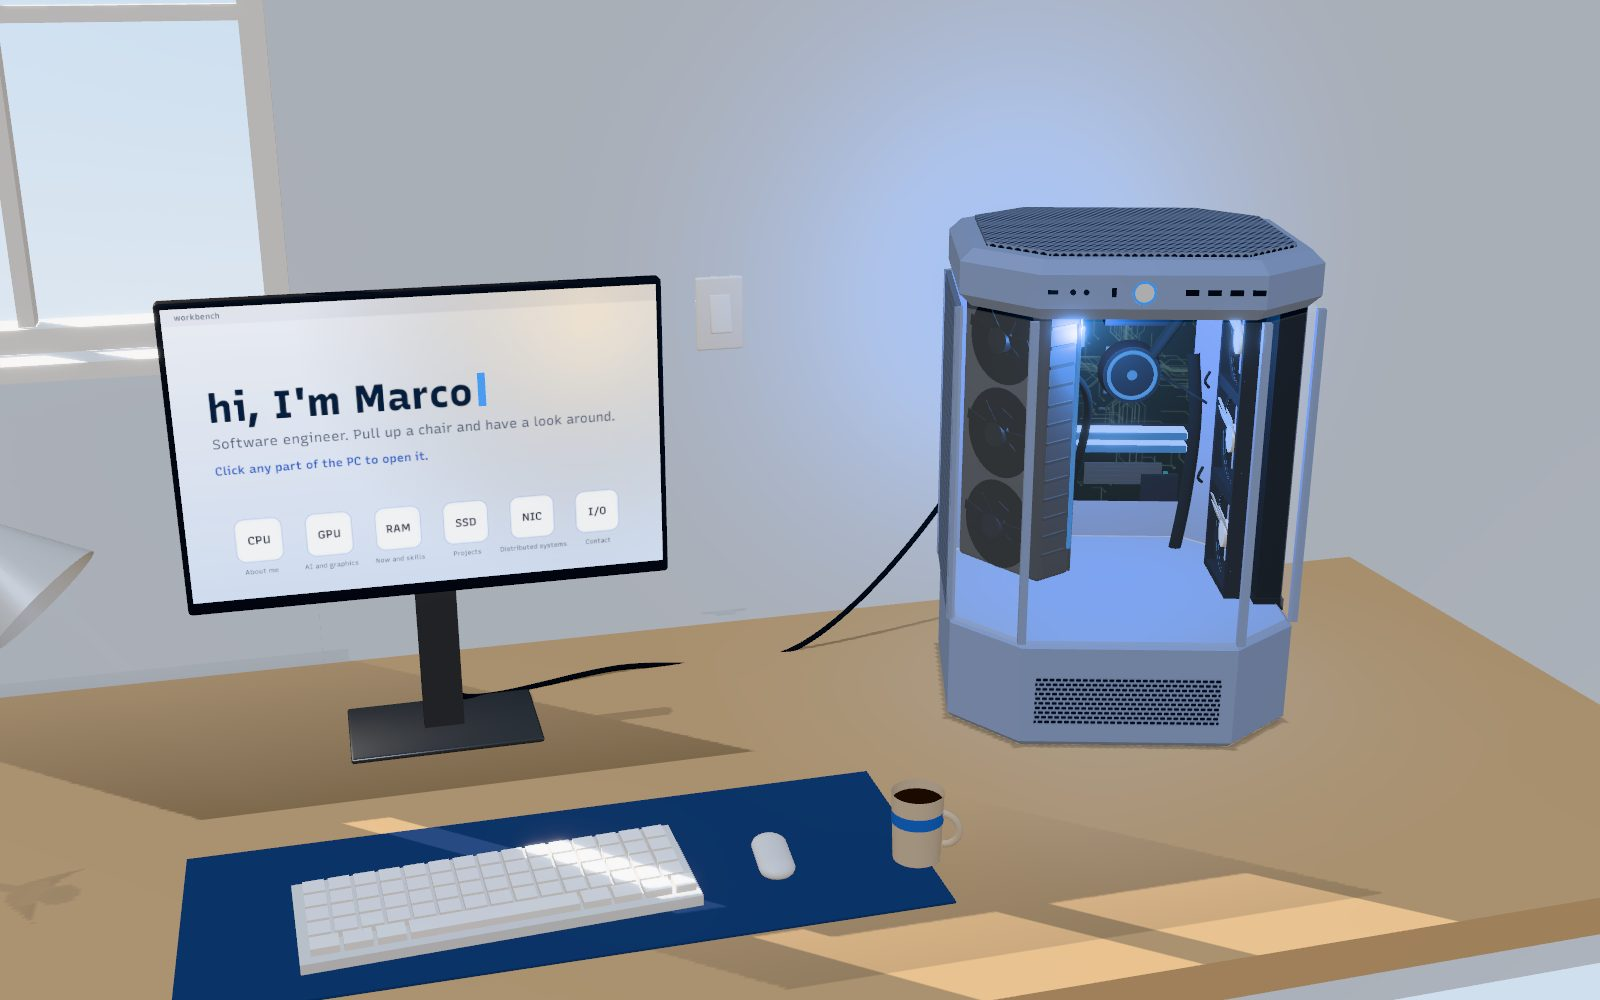
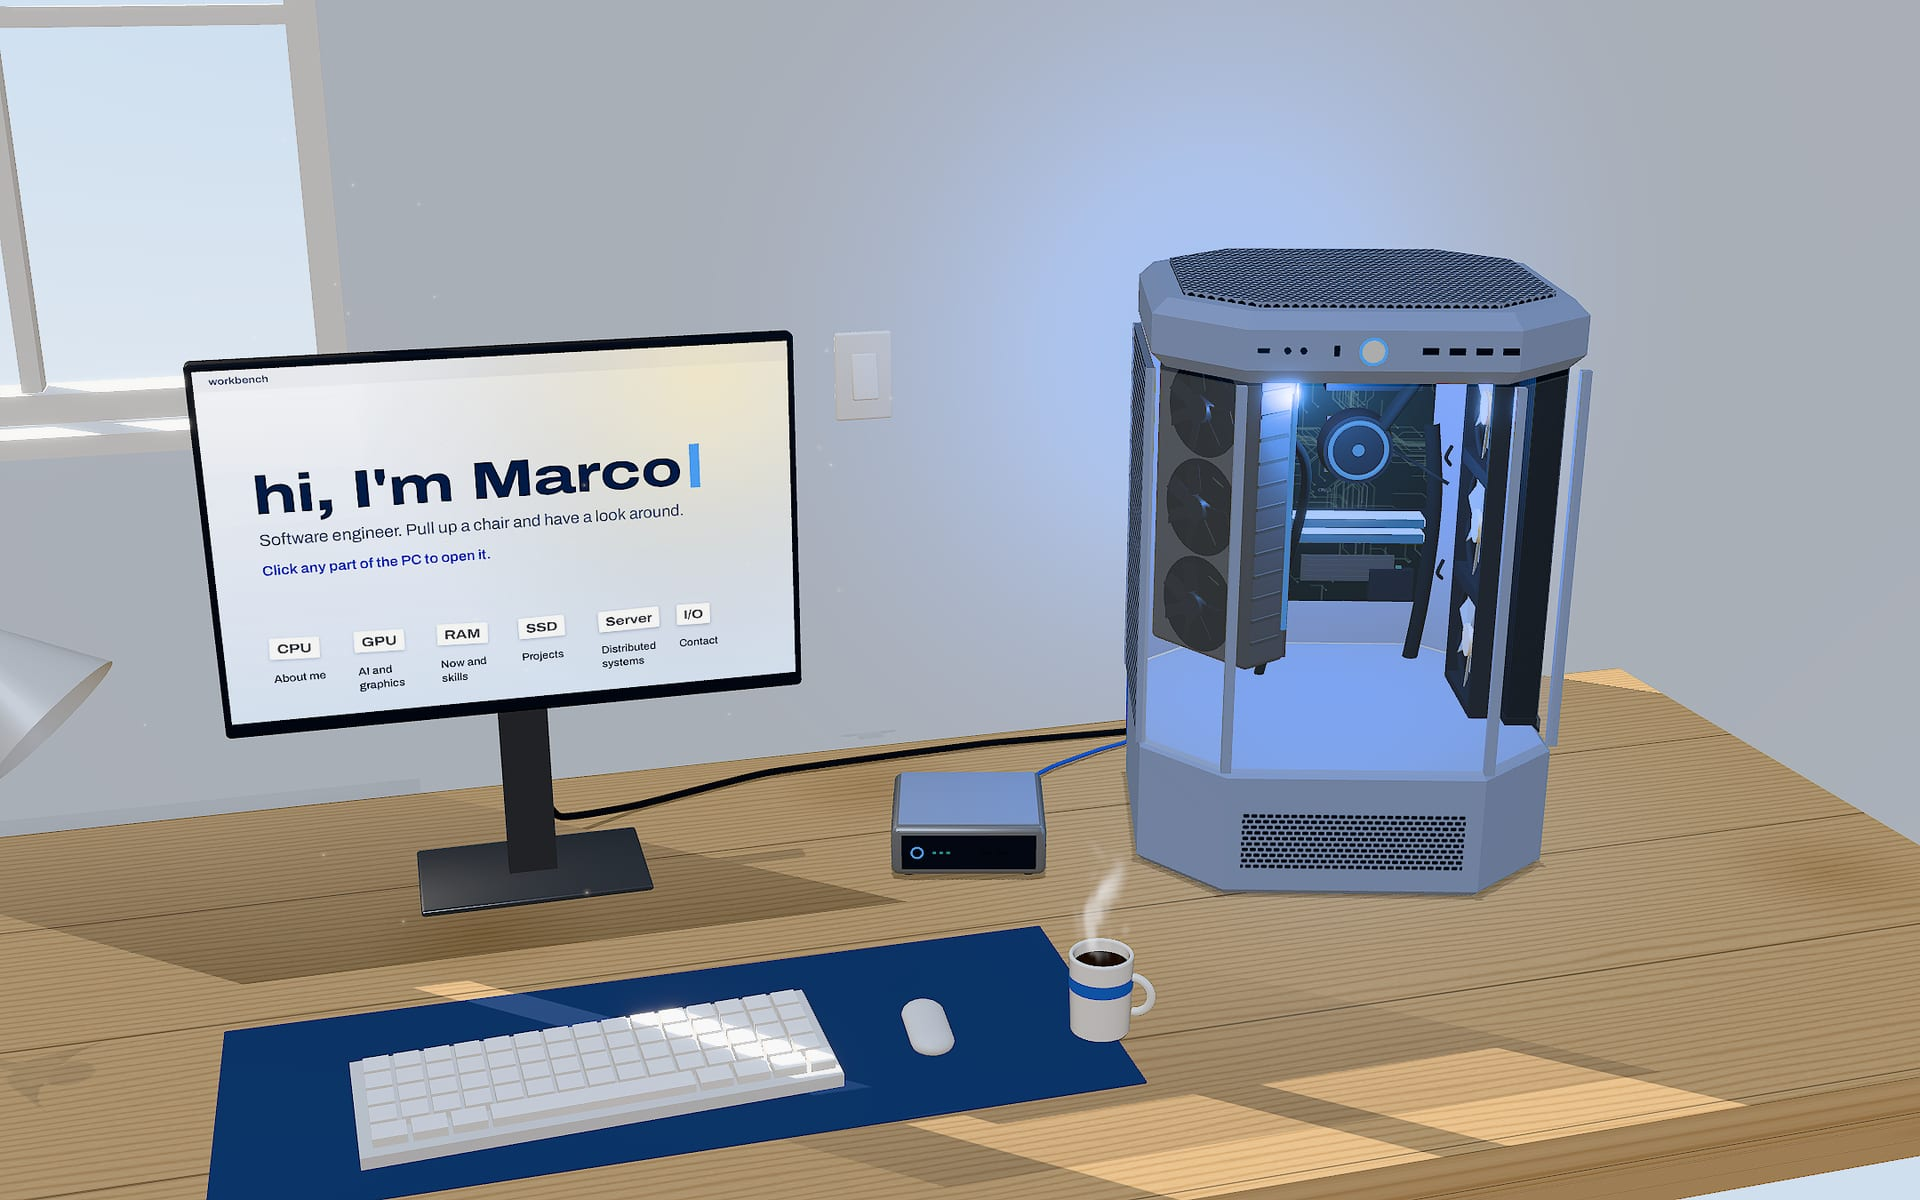
chore: refresh the fallback poster and link preview
They still showed the old font, the NIC tile and no mini server. The
preview is now a 1200x630 JPEG (84 KB instead of 1.3 MB).

diff --git a/src/ui/StaticFallback.tsx b/src/ui/StaticFallback.tsx
@@ -7,7 +7,7 @@ export function StaticFallback() {
     <div className="absolute inset-0 overflow-hidden">
       <Image
         src={poster}
-        alt="Marco's sunny desk: a monitor and a powder-blue PC."
+        alt="Marco's sunny desk: a monitor, a small mini server and a powder-blue PC."
         fill
         priority
         sizes="100vw"
